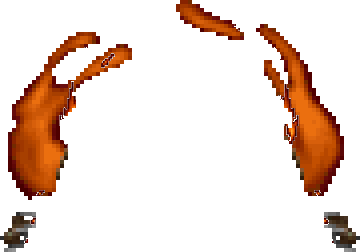
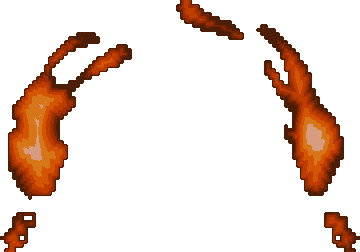
feat: MISF exhaust re-roll - crust reads native, D0 honestly redrawn
The two defects the weapon wave accepted with reservations are gone:
MISFA0/B0 swap the near-black spiky outline for the native thin dark
maroon crust (prompt pinned to the measured native edge color), and
MISFD0 is a real redraw now - 0 percent of texels within 4 of native
against the old 94 percent smoothed copy. Style anchored on the
accepted MISFC0. Old raws deleted before acceptance per the re-roll
rule; heal had nothing to cut, tone 1.14-1.20 -> 0.99-1.00.

Targeted suites: EditMode WeaponRedrawAssetTests 3/3, PlayMode
SpriteUpscalePlayTests 12/12; Windows build Success. The weapon wave
carries no debts.

diff --git a/CLAUDE.md b/CLAUDE.md
@@ -84,7 +84,7 @@ Stages 0–8 are done (6a–6f including music; 7a–7e including E1 standalone;
 
 **Волна 15 перерисовки текстур мира (водопады/анимации) ✅ закрыта 2026-08-30 («проверил в игре, выглядит хорошо») — анимированные стены эпизода покрыты ПОЛНОСТЬЮ** (branch `main`; промпты `prompt-wave15-{falls,inplace,fireblu}.md`). **20 текстур, ~71 сайддеф — все шесть анимированных стенных серий E1**: SFALL1–4 (48 сдф), WFALL1–4 (9), BFALL1–4 (7), ROCKRED1–3 (5, E1M2), SLADRIP1–3 (1, E1M4), FIREBLU1–2 (2, E1M8). **Ключ волны — покадровая консистентность КОНСТРУКЦИЕЙ, а не надеждой на GPT**; замер разделил серии на классы: (1) **водопады — рисуется ТОЛЬКО кадр 1**, кадры 2–4 синтезирует `Tools/make_fall_frames.py` прокруткой якоря на 128 px/кадр вниз (цикл замыкается точно, кадры делят одни тексели; нативный WFALL и сам честная прокрутка 32 px/кадр, SFALL/BFALL «кипят на месте» — синтез сознательно заменяет кипение ровным течением, в Enhanced кросс-фейд превращает шаги в непрерывный поток); (2) **анимации на месте (ROCKRED/SLADRIP)** — кадры 2–3 рисуются «та же композиция, движется только зона» и пинятся к якорю вне дилатированной нативной зоны изменений новым `Tools/enforce_anim_frames.py` (обобщение enforce_switch_pair; outside-diff 0.00% у всех четырёх); (3) **FIREBLU — пара хаоса** одной сессией, натив мигает так же жёстко. Пит: GPT сам замкнул тайл водопадов по ОБЕИМ осям (ratio 0.00 — кадры-прокрутки валидны конструкцией), FIREBLU1 вылечен по обеим осям; тон приходил 0.56–0.90 → 0.99–1.03; копий нет (ВЧ 1.7–4.3×), зелень на месте (SFALL 97%, SLADRIP зеленее натива — прецедент CEILVINE). **Попутный фикс класса бит-верности: WFALL добавлен в `IsFluid`** — был единственным водопадом без кросс-фейда, жидкостного шейдера и жидкостного профиля нормалей (пин-тест «все три водопада — Fluid»). Allowlist **363**, пайплайн **v42**. Suites: EditMode **691/691** + PlayMode **193/193** без флейков; Windows build OK **549.9 MB**. Гейт-карты: E1M9 (28 SFALL + все цвета), E1M1, E1M2, E1M4, E1M8. Известный остаток НЕ-Enhanced: в Classic текстурные анимации вообще статичны (`animatedFluids: false` в Classic-профиле — ванилла крутит жёсткими сменами по 8 тиков; пробел класса переключателей, кандидат на отдельный фикс). **Остаток трека редравов: только SKY1 (отдельный рендер-путь).**
 
-**Волна оружия от первого лица (viewmodel) ✅ закрыта 2026-08-30 («проверил в игре, выглядит хорошо»)** (branch `main`, `bab22d1`; промпты `Textures/WeaponRedraw/prompt-weapons-{melee,pistol-shotgun,chain-rocket,plasma-bfg}.txt`; панельный и игровой гейты пройдены). Последний класс спрайтов без редравов: после удаления EdgeMix оружие в руках рендерилось нативом. **34 лампа — все 8 оружий целиком** (PUNG A–D, SAWG A–C, PISG A–C + PISF, SHTG A–D + SHTF A–B, CHGG A–B + CHGF, MISG A–B + MISF A–D, PLSG/PLSF/BFGG/BFGF по A–B); кадры WAD вне WeaponTable (PISGD0/E0, SAWGD0, CHGFB0, BFGGC0) сознательно не рисовались. **Главная находка волны: GPT рисует предмет чуть у́же нативного силуэта и заливает зазор запечённой «шахматкой» фейк-прозрачности (#FFF/#CCC 8px-блоками), а тексель-точная нативная маска держит её непрозрачной — в игре была бы белая кайма вдоль всего оружия.** Лечение детерминированное — `Tools/heal_weapon_checker.py`: сиды (строгая шахматка + светлые нативно-непохожие пиксели у границы маски) → BFS-рост в полосе ≤28px от границы; `--lake` добирает интерьерные белые озёра (PLSG прятал 19k px под корпусом; озёра ОПАСНЫ для вспышек — выедают белые ядра PLSF/BFGF, потому за флагом и применены только к PLSG); `--rim-aggressive` — бледно-розовый ореол PUNG (sat ~60 выше десат-классов); срезы 0–27% пер-ламп, итоговый силуэт всегда ⊆ натива (пин в тестах). Тон приходил ярче натива (1.1–1.3×) → `Tools/tone_match_weapon.py` по общим непрозрачным текселям СТРОГО после лечения (шахматка врёт в статистику: PLSG 2.6× мнимого → 1.55 честного) → 0.98–1.09; BFGF сознательно не тонирован — глобальный по-канальный перенос красил сине-белую корону кремовым (мультиматериальный спрайт). BFGGB0 — пара класса переключателей (диф 2.7% = красно-фиолетовые огни зарядки), пришпилен к A вне дилатированной зоны (0.00%). Рантайм — зеркало HUD-пути: `WeaponRedrawAllowlist` (34, контракт точный 4×) + `WorldTextureVariant.EnhancedWeaponRedraw` + `CreateWeaponRedrawTexture` в `SpriteCache` (Resources/EnhancedWeapons, валидация размера против заголовка патча, Point, кэш отказов — `GetWeapon` зовётся каждый OnGUI-репейнт); фолбэк натив пер-ламп, Classic бит-верен, размещение всегда по нативному заголовку. Установка `Tools/install_weapon_redraws.py` (+5.8 MB Resources). Suites: EditMode **694/694** (`WeaponRedrawAssetTests` ×3: точный 4× + опак-внутри-натива, сторож сирот, покрытие пином к WeaponTable — гарантия от мерцания редрав/натив внутри очереди выстрела), PlayMode **194/194** без флейков (маршрут редрава с нативными габаритами, PISGD0 вне allowlist остаётся нативом, хот-свитч переписан на 4×-контракт); Windows build Success **543 MB**. Ре-ролл кандидаты, принятые с оговоркой: MISFD0 — сглаженная копия натива (кадр затухания выхлопа), тёмная обводка пламени MISFA0/B0.
+**Волна оружия от первого лица (viewmodel) ✅ закрыта 2026-08-30 («проверил в игре, выглядит хорошо»)** (branch `main`, `bab22d1`; промпты `Textures/WeaponRedraw/prompt-weapons-{melee,pistol-shotgun,chain-rocket,plasma-bfg}.txt`; панельный и игровой гейты пройдены). Последний класс спрайтов без редравов: после удаления EdgeMix оружие в руках рендерилось нативом. **34 лампа — все 8 оружий целиком** (PUNG A–D, SAWG A–C, PISG A–C + PISF, SHTG A–D + SHTF A–B, CHGG A–B + CHGF, MISG A–B + MISF A–D, PLSG/PLSF/BFGG/BFGF по A–B); кадры WAD вне WeaponTable (PISGD0/E0, SAWGD0, CHGFB0, BFGGC0) сознательно не рисовались. **Главная находка волны: GPT рисует предмет чуть у́же нативного силуэта и заливает зазор запечённой «шахматкой» фейк-прозрачности (#FFF/#CCC 8px-блоками), а тексель-точная нативная маска держит её непрозрачной — в игре была бы белая кайма вдоль всего оружия.** Лечение детерминированное — `Tools/heal_weapon_checker.py`: сиды (строгая шахматка + светлые нативно-непохожие пиксели у границы маски) → BFS-рост в полосе ≤28px от границы; `--lake` добирает интерьерные белые озёра (PLSG прятал 19k px под корпусом; озёра ОПАСНЫ для вспышек — выедают белые ядра PLSF/BFGF, потому за флагом и применены только к PLSG); `--rim-aggressive` — бледно-розовый ореол PUNG (sat ~60 выше десат-классов); срезы 0–27% пер-ламп, итоговый силуэт всегда ⊆ натива (пин в тестах). Тон приходил ярче натива (1.1–1.3×) → `Tools/tone_match_weapon.py` по общим непрозрачным текселям СТРОГО после лечения (шахматка врёт в статистику: PLSG 2.6× мнимого → 1.55 честного) → 0.98–1.09; BFGF сознательно не тонирован — глобальный по-канальный перенос красил сине-белую корону кремовым (мультиматериальный спрайт). BFGGB0 — пара класса переключателей (диф 2.7% = красно-фиолетовые огни зарядки), пришпилен к A вне дилатированной зоны (0.00%). Рантайм — зеркало HUD-пути: `WeaponRedrawAllowlist` (34, контракт точный 4×) + `WorldTextureVariant.EnhancedWeaponRedraw` + `CreateWeaponRedrawTexture` в `SpriteCache` (Resources/EnhancedWeapons, валидация размера против заголовка патча, Point, кэш отказов — `GetWeapon` зовётся каждый OnGUI-репейнт); фолбэк натив пер-ламп, Classic бит-верен, размещение всегда по нативному заголовку. Установка `Tools/install_weapon_redraws.py` (+5.8 MB Resources). Suites: EditMode **694/694** (`WeaponRedrawAssetTests` ×3: точный 4× + опак-внутри-натива, сторож сирот, покрытие пином к WeaponTable — гарантия от мерцания редрав/натив внутри очереди выстрела), PlayMode **194/194** без флейков (маршрут редрава с нативными габаритами, PISGD0 вне allowlist остаётся нативом, хот-свитч переписан на 4×-контракт); Windows build Success **543 MB**. **Ре-ролл MISFA0/B0/D0 ✅ закрыт 2026-08-30 («выглядит хорошо»)** — оба принятых с оговоркой дефекта сняты одним сетом (промпт `prompt-weapons-misf-reroll.txt`, эталон стиля — принятый MISFC0, только читать): у A/B чёрно-синяя обводка короны заменена тонкой тёмно-бордовой коркой (пин промпта цветом натива — кромка R−B ≈ +100), D перерисован честно (близких текселей 0% против 94% копии). Пит: старые redraw-raw удалены ДО приёмки (правило ре-роллов), лечению резать было нечего (маски пришли чистыми), тон 1.14–1.20 → 0.99–1.00. Целевые сьюты EditMode `WeaponRedrawAssetTests` 3/3 + PlayMode `SpriteUpscalePlayTests` 12/12, Windows build Success. Долгов у волны оружия нет.
 
 **Монстро-долги трека ✅ ВСЕ закрыты 2026-08-27** (branch `main`, пять коммитов, каждый с пройденным интерактивным гейтом; упоминания этих долгов как открытых в записях волн ниже — историческая археология). `e76ff13` SARG F ре-ролл (укус снова трёхфазный); `eca623e` SPOS — ре-ролл F на чистом хинте (старый нёс запечённую вспышку, реконструировалась чёрным комом), репроекция всего живого сета A–G с `--back-from-bake` (зеркальные визоры на спинах ушли, маски эмиссии перегенерированы), и шейдерная вспышка выстрела: `Tools/make_muzzle_flash.py` печёт рваный пиксель-арт-бёрст строго из нативных текселей SPOSF1 через PLAYPAL (фотореал и гладкий диск отвергнуты гейтом), квад едет на инстансе кадра огня — vanilla fullbright-каденция бесплатно, путь табличный; `e62e516` POSS подключён к той же вспышке; `96ba653` BOSS N0 ре-ролл (курган → широкая россыпь); `1c887d9` плиты POSSU0/SPOSU0 → рваные россыпи (в коммите «the last monster debt»; рулетка ориентации TRELLIS: POSSU0 пришёл длиной по X но хинтом назад — yaw 180, SPOSU0 длиной по Z — yaw 90). Остаток всего трека редравов после этого: только дальний резерв (водопады, SKY1).
 
